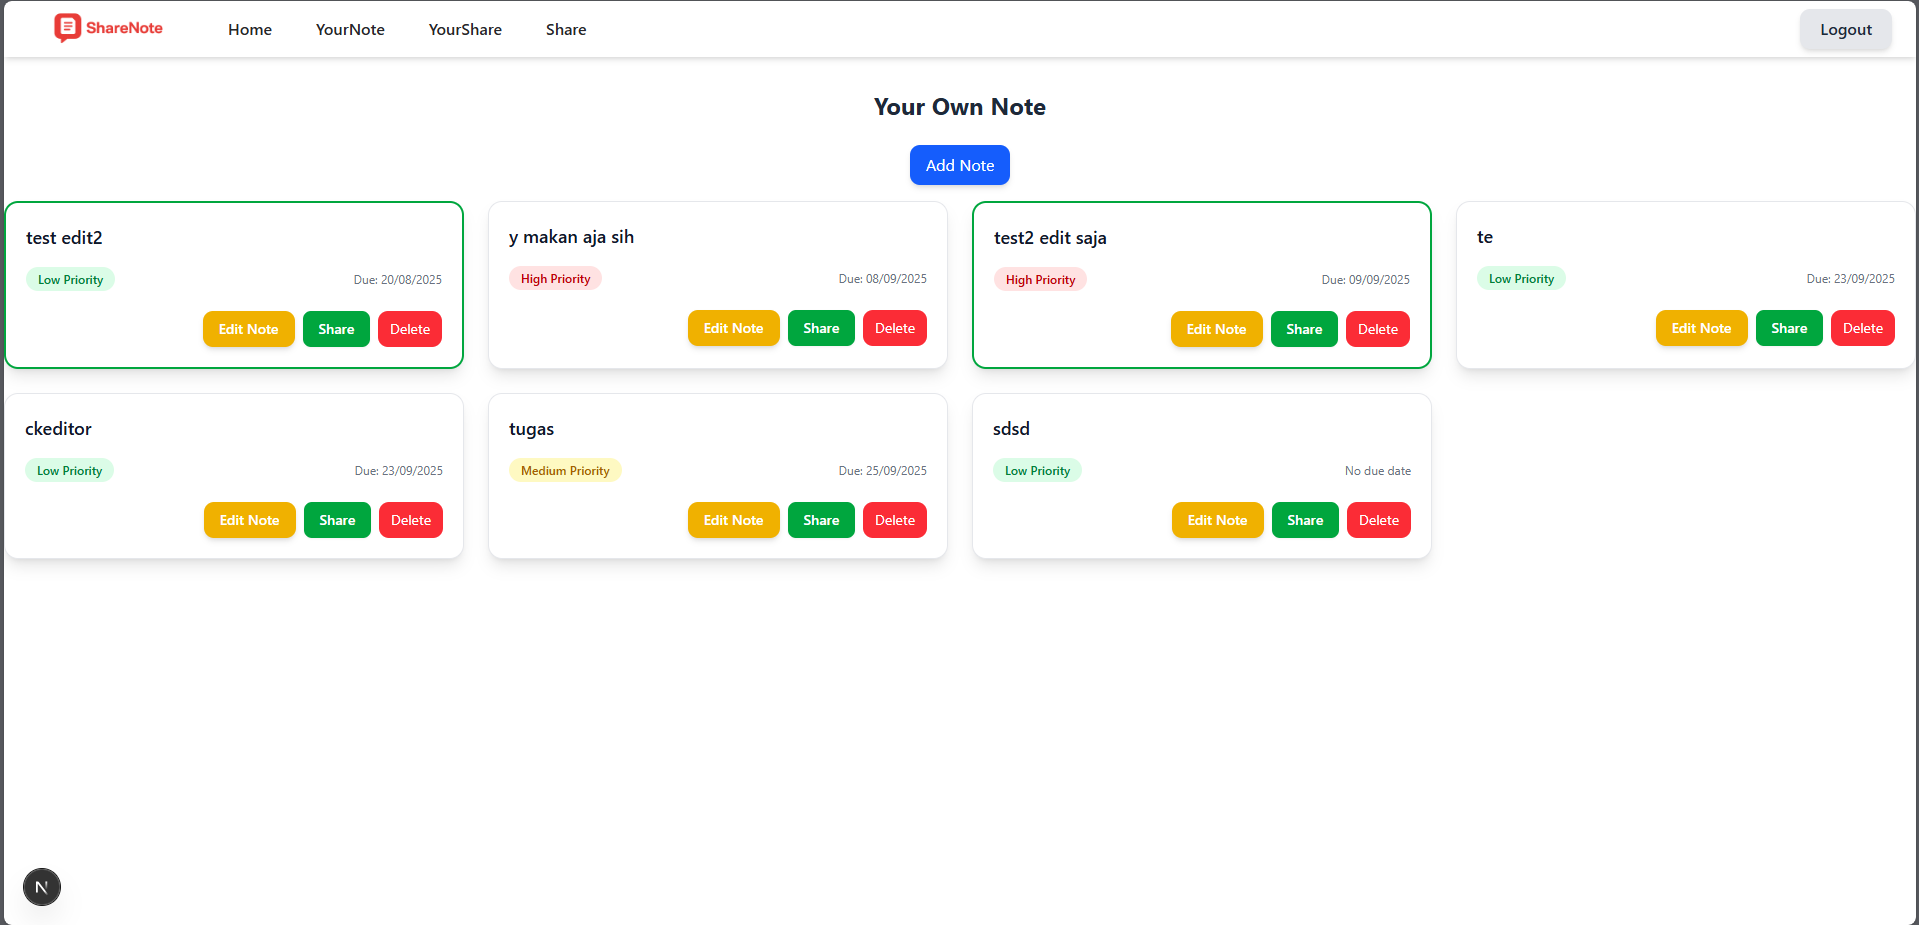
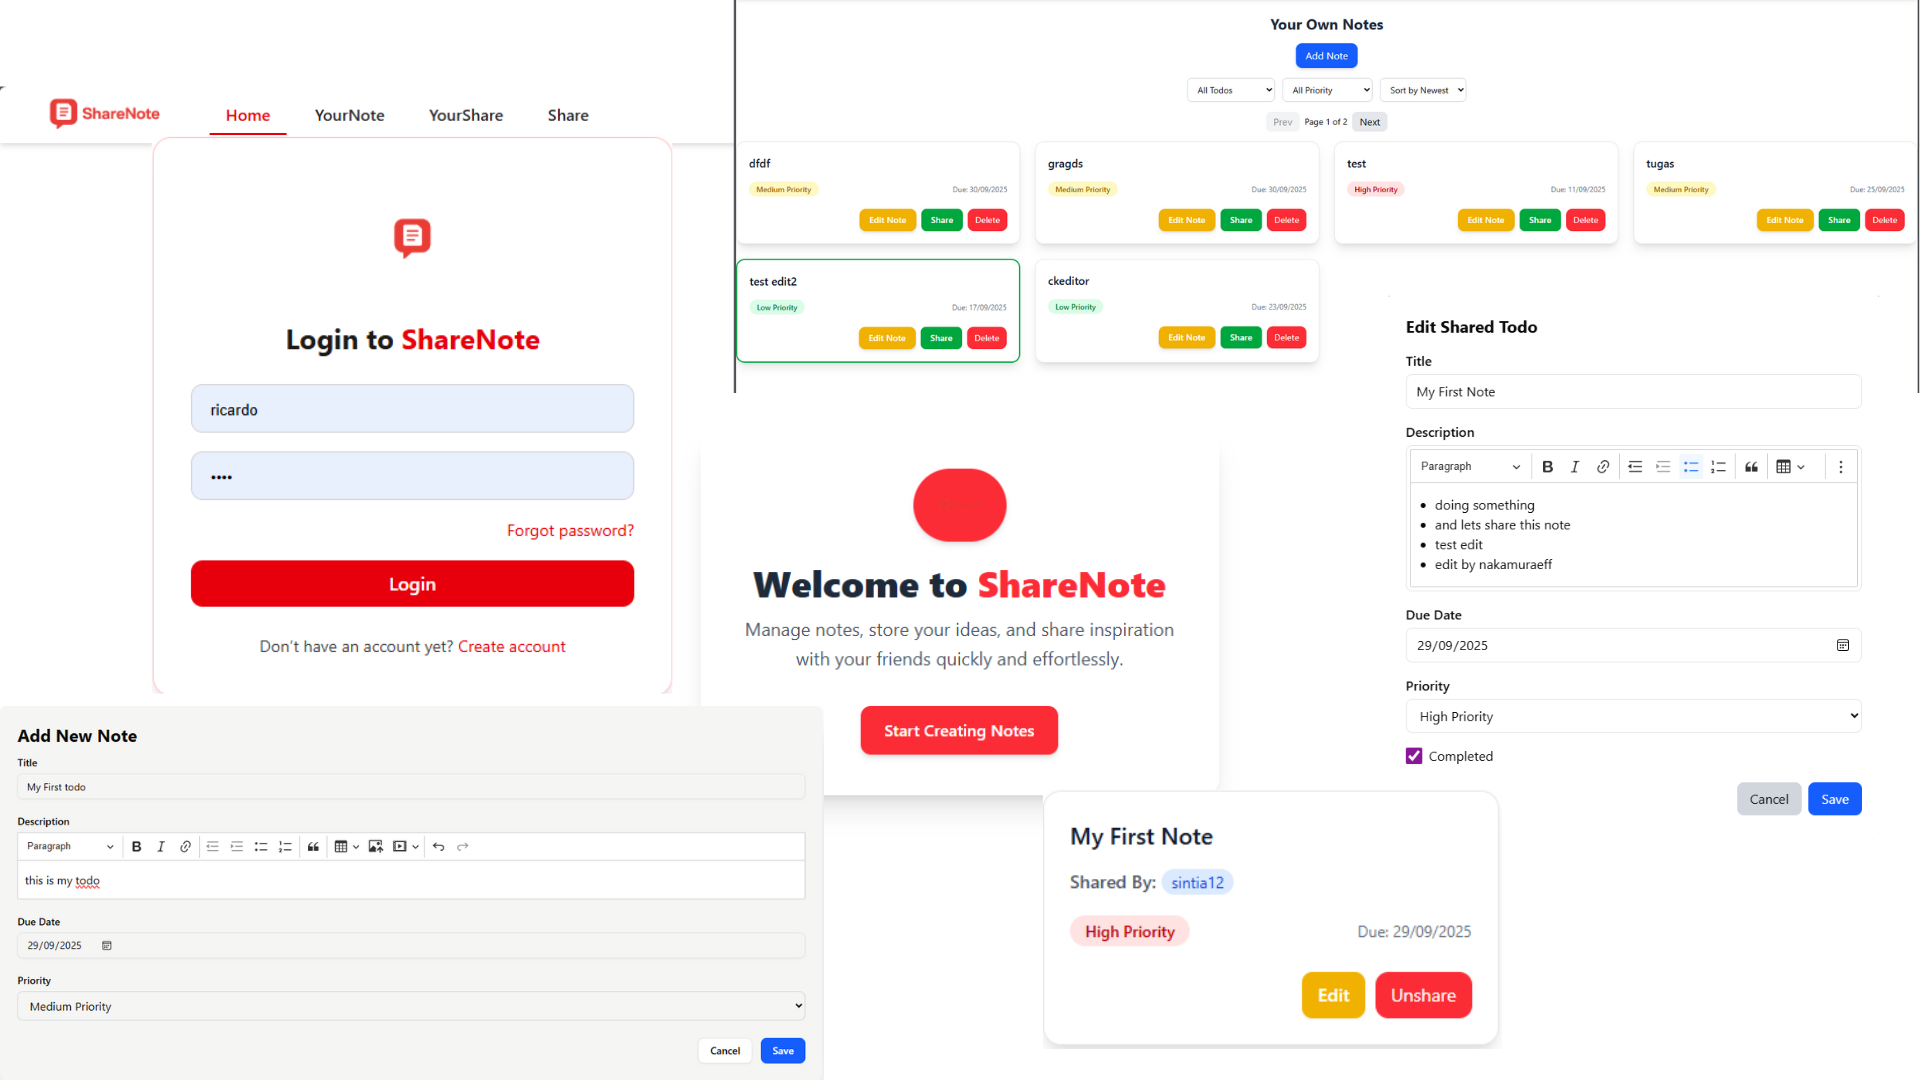
change image project and add intern pt git solutions

diff --git a/src/app/menu/WorkExperience.tsx b/src/app/menu/WorkExperience.tsx
@@ -62,6 +62,28 @@ export default function WorkExperience() {
       </div>
       <div className="p-6 bg-white  flex justify-center items-center">
         <ExperienceCard
+          logo="/gitsolution.png"
+          role="Intern Full Stack Web Developer"
+          company="PT GIT SOLUTION"
+          date="Sep 2023 - Des 2023"
+          points={[
+            "Online Full Stack Web Developer Internship Batch 9",
+            "Developed end-to-end web applications using EJS and Bootstrap for the frontend, and Express.js with Node.js for the backend",
+          ]}
+          techs={[
+            "Node.js",
+            "Express.js",
+            "Bootstrap",
+            "EJS",
+            "PostgreSql",
+            "Laragon",
+            "Typescript",
+            "Javascript",
+          ]}
+        />
+      </div>{" "}
+      <div className="p-6 bg-white  flex justify-center items-center">
+        <ExperienceCard
           logo="/company1.jpg"
           role="Internship Computer Technician"
           company="DigiParts"

diff --git a/src/app/menu/MyProject.tsx b/src/app/menu/MyProject.tsx
@@ -2,7 +2,7 @@ import ProjectCard from "@/app/components/ProjectCard";
 
 const projects = [
   {
-    image: "/circleProject.jpg",
+    image: "/circleProject.png",
     title: "Circle",
     description:
       "Circle is a social platform that makes it easy to connect and share experiences effortlessly.",
